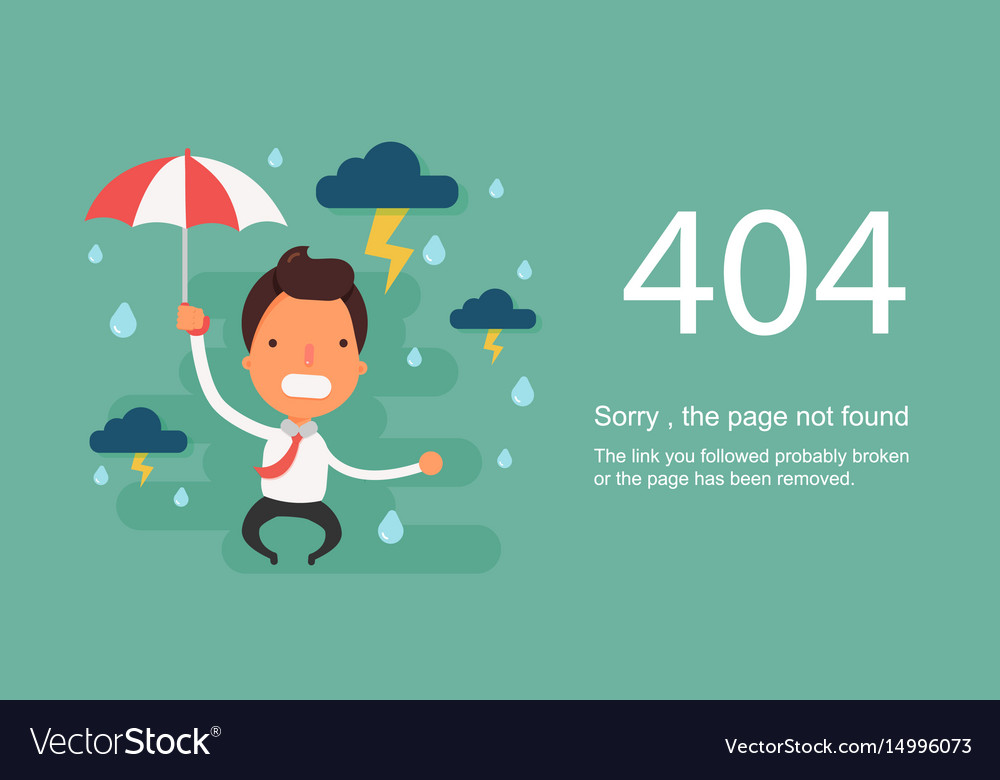
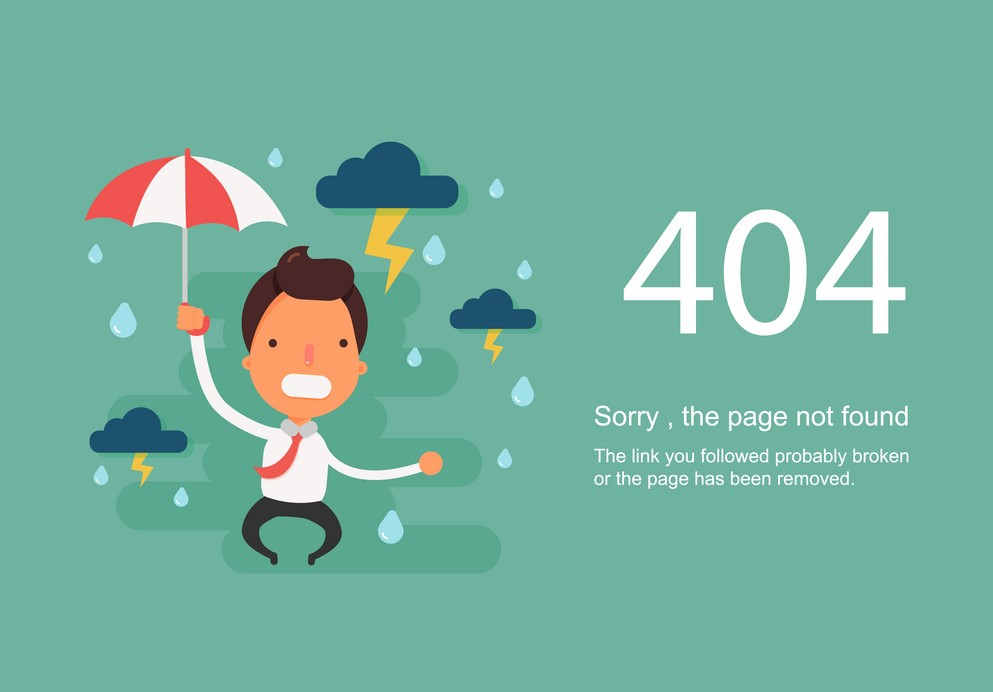
update

diff --git a/404.html b/404.html
@@ -3,29 +3,21 @@ permalink: /404.html
 ---
 <!DOCTYPE html>
 <html lang="en">
-<head>
-  <meta charset="utf-8">
-  <meta content="width=device-width, initial-scale=1.0" name="viewport">
-  <title>Himalayan Bootstrap Template - Index</title>
-  <meta content="" name="description">
-  <meta content="" name="keywords">
-    <style>
-        *{
-            background-color: #143053;
-        }
 
-        body{
-            background-image: url("assets/img/pagenotfound.jpg");
-            width: 100%;
-            height: 100%;
-        }
-        .notfound{
-            width: auto;
-            height: 98vh;
-        }
-    </style>
+<head>
+    <meta charset="utf-8">
+    <meta content="width=device-width, initial-scale=1.0" name="viewport">
+    <title>Himalayan Bootstrap Template - Index</title>
+    <meta content="" name="description">
+    <meta content="" name="keywords">
+    <link href="assets/css/style.css" rel="stylesheet">
 </head>
+
 <body>
-    <div class="container"></div>
+    <div class="page-div">
+        <center class="page-not-found">
+        </center>
+    </div>
 </body>
+
 </html>

diff --git a/assets/css/style.css b/assets/css/style.css
@@ -918,3 +918,27 @@ section {
     margin: -20px 0 30px 0;
   }
 }
+
+.page-div{
+  display: flex;
+  align-items: center;
+  justify-content: center;
+  width: 100%;
+  height: 100vh;
+  background-color: #6eb3a0;
+}
+
+.page-not-found{
+  width: 100%;
+  height: 94vh;
+  background: url(../img/pagenotfound.jpg) no-repeat center center/cover;
+}
+
+@media (max-width: 560px) {
+  .page-not-found{
+    width:100%;
+    height: 20%;
+    offset: 1;
+    background: url(../img/pagenotfound.jpg) no-repeat center center/cover;
+  }
+}
